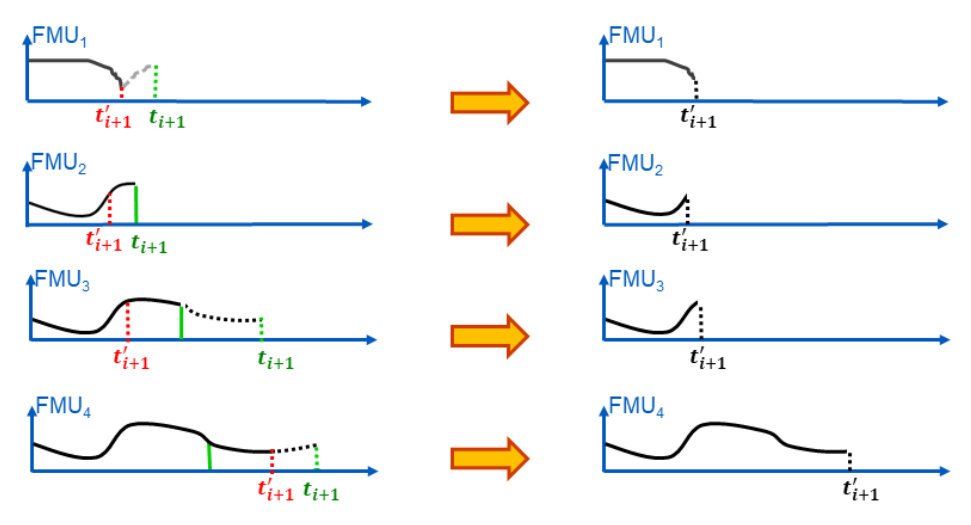
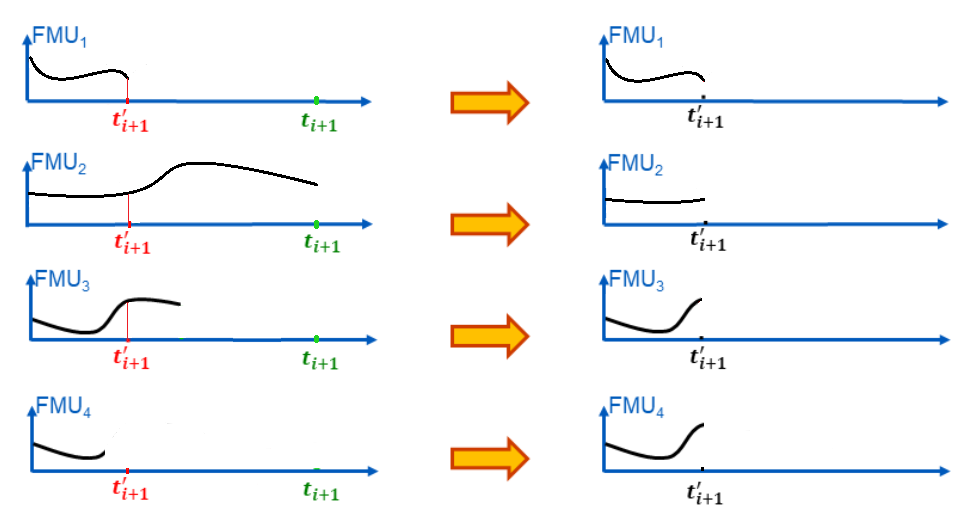
Update generated specification from fmi-standard (1d59087)

diff --git a/docs/3.0-dev/index.html b/docs/3.0-dev/index.html
@@ -9276,23 +9276,23 @@ Since the FMU itself can detect such changes, the co-simulation algorithm does n
 <div class="title">Figure 24. Different possibilities to synchronize parallel FMUs at the same event time.</div>
 </div>
 <div class="paragraph">
-<p><em>Each FMU starts integration from communication point \(t_{i}\) to reach the next communication point \(t_{i+1}\).</em>
-<em>Assuming an unexpected internal event is detected at</em> \(t^{'}_{i+1}&lt; t_{i+1}\) <em>during FMU<sub>1</sub> integration, the co-simulation algorithm is informed of this early return.</em>
-<em>Now the co-simulation algorithm would like to avoid other FMUs exceed the event time, since all FMUs should be resynchronized at the event time which will be the next new communication point.</em></p>
+<p><em>Each FMU starts integration from communication point</em> \(t_{i}\) <em>to reach the next communication point</em> \(t_{i+1}\) <em>.</em>
+<em>Assuming an unexpected internal event is detected at</em> \(t^{'}_{i+1}&lt; t_{i+1}\) <em>inside FMU<sub>1</sub> , the FMU immediately informs the co-simulation algorithm and asks for an early return.</em>
+<em>Since all FMUs should be resynchronized at the event time which will be the next new communication point, the co-simulation algorithm would like to avoid other FMUs exceed the event time.</em></p>
 </div>
 <div class="ulist">
 <ul>
 <li>
-<p><em>In the case of FMU<sub>1</sub>, the internal event time becomes the new</em> \(t_{i+1}\) <em>time, i.e. this is the source of the event.</em></p>
+<p><em>In the case of FMU<sub>1</sub>, the FMU waits to get pushed into the event mode to handle the event at</em> \(t^{'}_{i+1}\) <em>.</em></p>
 </li>
 <li>
-<p><em>In the case of FMU<sub>2</sub>, a complete rollback from</em> \(t_{i}\) <em>to</em> \(t^{'}_{i+1}\) <em>is necessary.</em></p>
+<p><em>In the case of FMU<sub>2</sub>, since this FMU has already reached</em> \(t_{i+1}\) <em>, a complete rollback and a new co-simulation from</em> \(t_{i}\) <em>to</em> \(t^{'}_{i+1}\) <em>is necessary.</em></p>
 </li>
 <li>
-<p><em>In the case of FMU<sub>3</sub>, computation is immediately interrupted and only a partial rollback is necessary to reach \(t^{'}_{i+1}\) time.</em></p>
+<p><em>In the case of FMU<sub>3</sub>, computation is immediately interrupted and only a partial rollback is necessary to reach</em> \(t^{'}_{i+1}\) <em>time.</em></p>
 </li>
 <li>
-<p><em>In the case of FMU<sub>4</sub>, the current step integration has been interrupted at</em> \(t^{'}_{i+1}\) <em>and no rollback is necessary.</em></p>
+<p><em>In the case of FMU<sub>4</sub>, the master immediately requests FMU<sub>4</sub> an early return at</em> \(t^{'}{i+1}\) <em>and the current integration step will been interrupted at</em> \(t^{'}{i+1}\) <em>and no rollback is necessary for FMU<sub>4</sub>.</em></p>
 </li>
 </ul>
 </div>
